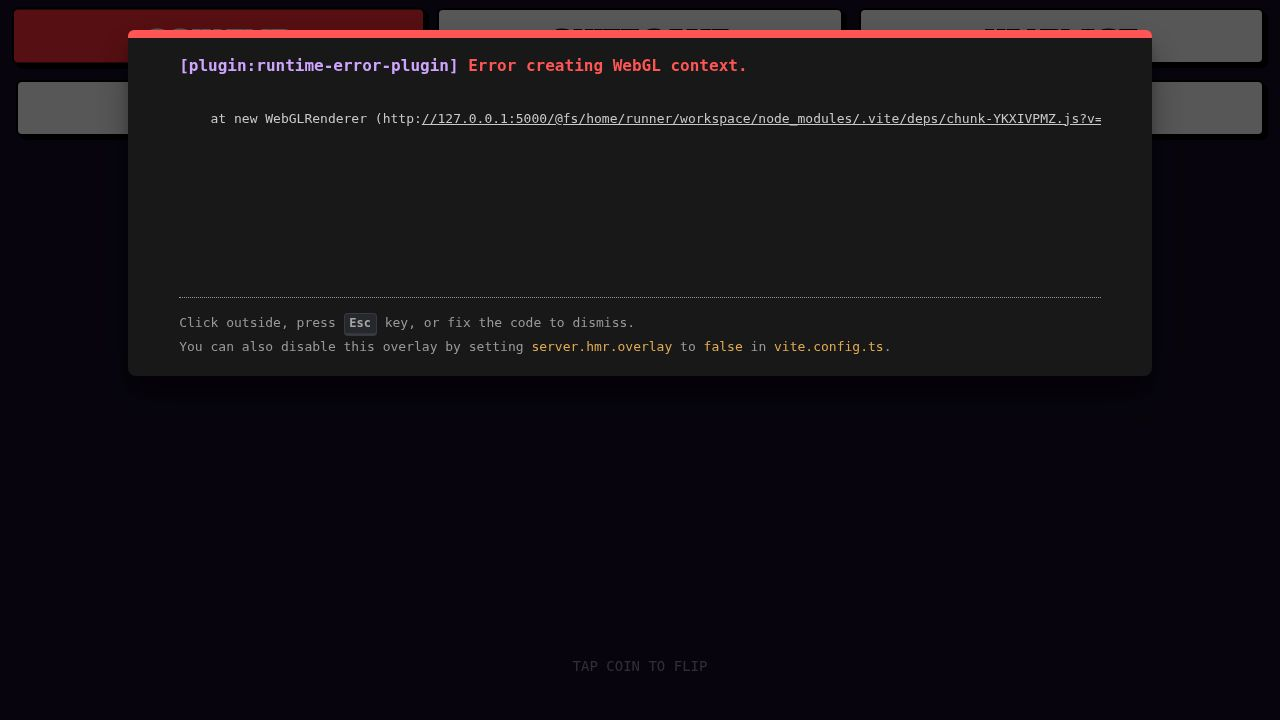
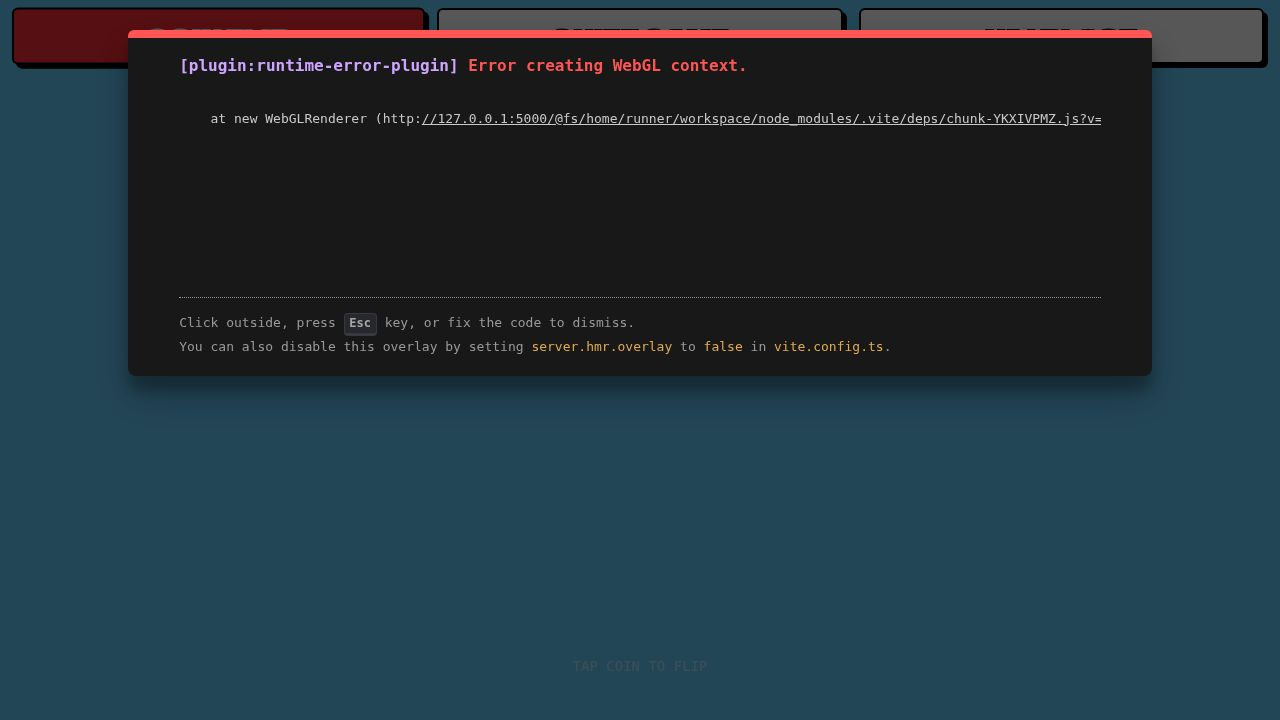
Update Tic Tac Toe grid color and button styles for consistency
Adjusted Tic Tac Toe grid border color to dark red on mobile, reverted "Play Again" button font to original, and set its outline to 1px width.

Replit-Commit-Author: Agent
Replit-Commit-Session-Id: 5204b397-f2a6-4ccc-92d8-1d4cca77fb58
Replit-Commit-Checkpoint-Type: full_checkpoint
Replit-Commit-Event-Id: d063d764-1b27-4801-bae6-0aa056bda123
Replit-Commit-Screenshot-Url: https://storage.googleapis.com/screenshot-production-us-central1/276e9902-4f5b-442f-8093-76466617e840/5204b397-f2a6-4ccc-92d8-1d4cca77fb58/mPxUdRB
Replit-Helium-Checkpoint-Created: true

diff --git a/client/src/pages/TicTacToe.tsx b/client/src/pages/TicTacToe.tsx
@@ -81,7 +81,7 @@ export default function TicTacToe() {
               className={`
                 w-full h-full
                 flex items-center justify-center text-4xl relative overflow-hidden
-                border-black border-solid
+                border-[#800020] border-solid
                 ${index < 6 ? 'border-b-4' : 'border-b-0'}
                 ${index % 3 !== 2 ? 'border-r-4' : 'border-r-0'}
                 ${winningLine?.includes(index) ? "bg-green-500/10" : ""}
@@ -134,7 +134,7 @@ export default function TicTacToe() {
                         <Button 
                             onClick={resetGame} 
                             size="lg" 
-                            className="font-['Chewy','cursive'] tracking-wider text-2xl px-8 py-6 bg-[#FF10F0] text-[#7FFF00] border-4 border-[#7FFF00] hover:bg-[#D000C0] hover:scale-105 transition-all shadow-[4px_4px_0_#7FFF00]"
+                            className="font-display tracking-wider text-2xl px-8 py-6 bg-[#FF10F0] text-[#7FFF00] border border-[#7FFF00] hover:bg-[#D000C0] hover:scale-105 transition-all shadow-[4px_4px_0_#7FFF00]"
                         >
                             PLAY AGAIN
                         </Button>
